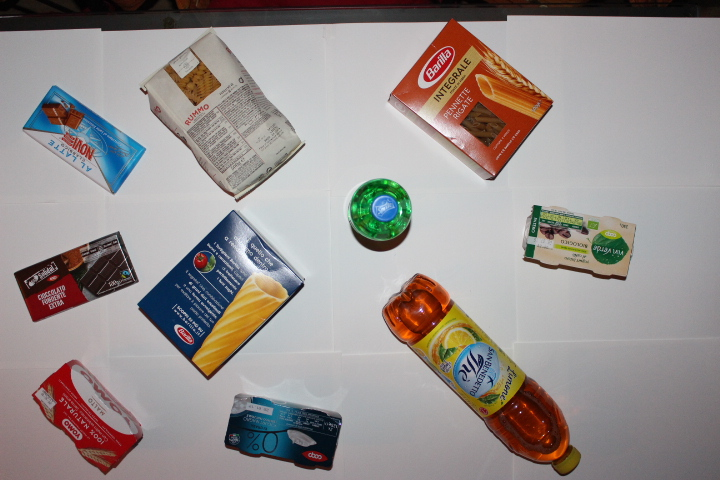
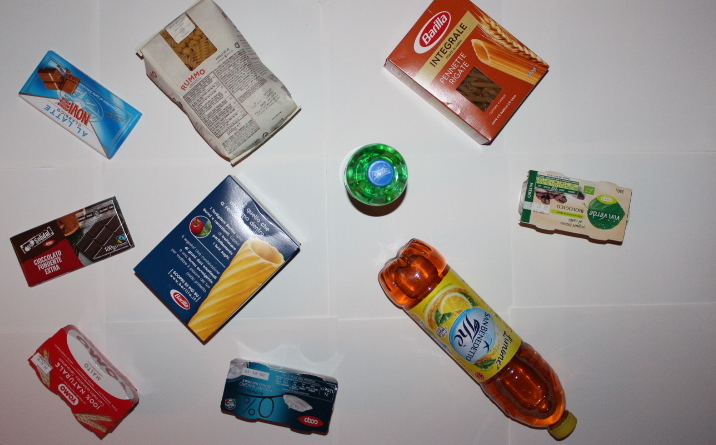
handling non-uniform light, chanching morphology approach

diff --git a/segmentation.m b/segmentation.m
@@ -17,38 +17,61 @@ NCOLUMNS = 3;
     img = rgb2gray(image);
     
     %% Binarization
+    
+    % OLD - binarizing over RGB channels separately
+    %{
     R = image(:, :, 1);
     G = image(:, :, 2);
     B = image(:, :, 3);
     
-    % binarizing over RGB channels separately
     BW = imcomplement(imbinarize(R) & imbinarize(G) & imbinarize(B));
     subplot(NROWS, NCOLUMNS, 1), imshow(BW), title("Binarized image");
-    BW = ~imbinarize(rgb2gray(image));
+    BW = ~imbinarize(img);
+    %}
     
-    % adding edget to delimit objects better
+    % using morphological opening to extract background
+    % using light gray colors for objects in order to use morphology 
+    img = imcomplement(rgb2gray(image));
+    SE = strel('disk',60);
+    % extracting background with structure element
+    background = imopen(img,SE);
+    im2 = img - background;
+    % adjusting histogram distribution with gamma correction
+    im3 = imadjust(im2);
+    % binarizing image
+    BW = imbinarize(im3);
+    % removing small imperfections from binarization
+    BW = bwareaopen(BW,50);
+    subplot(NROWS, NCOLUMNS, 1), imshow(BW), title("Binarized image");
+    
+    %% Edge extraction
+    % extracting edge with Canny method
     edge2 = edge(img, 'Canny', 0.1);
     subplot(NROWS, NCOLUMNS, 2), imshow(edge2), title("Edges");
     
+    % adding edges to better delimit objects
     BW = BW | edge2;
     subplot(NROWS, NCOLUMNS, 3), imshow(BW), title("BW edge");
 
-
     %% morphology
     % structuring elemnt
-    SE = [0 1 0; 1 1 1; 0 1 0];
+    SE = strel('disk', 3);
     
-    %dilatation, 3 times 3x3 SE
+    % dilatation to close object borders
     morph = imdilate(BW, SE);
-    morph = imdilate(morph, SE);
-    morph = imdilate(morph, SE);
+    
+    % ALTERNATIVE
+    % dilatation and erosion to connect borders
+    %SE = strel('disk', 6);
+    %morph = imclose(BW, SE);
+    
     subplot(NROWS, NCOLUMNS, 4), imshow(morph), title("Morph dilatation");
     
-    %hole filling
+    % hole filling
     morph = imfill(morph, 'holes');
     subplot(NROWS, NCOLUMNS, 5), imshow(morph), title("Morph holes");
     
-    %opening
+    % opening
     morph = bwareaopen(morph, 2000);
     subplot(NROWS, NCOLUMNS, 6), imshow(morph), title("Morph opening");
     

diff --git a/main.m b/main.m
@@ -4,8 +4,8 @@ close all
 NROWS = 2;
 NCOLUMNS = 3;
 
-%original image
-image = im2double(imread('0014.JPG'));
+% original image
+image = im2double(imread('0018 (NO).JPG'));
 figure(1), 
 subplot(2, 3, 1), imshow(image), title("Original image");
 
@@ -20,7 +20,13 @@ figure(1),
 subplot(NROWS, NCOLUMNS, 3), imshow(BW), title("Segmentated image");
 
 %% bounding box
-drawBoundingBox(BW);
+%answer = questdlg('Plot bounding box?', ...
+%	'bounding box', ...
+%	'Yes','No', 'Yes');
+answer = 'Yes'
+if(answer == 'Yes')
+    drawBoundingBox(BW);
+end
 
 %% labelling
 [labels, n_labes] = bwlabel(BW);
